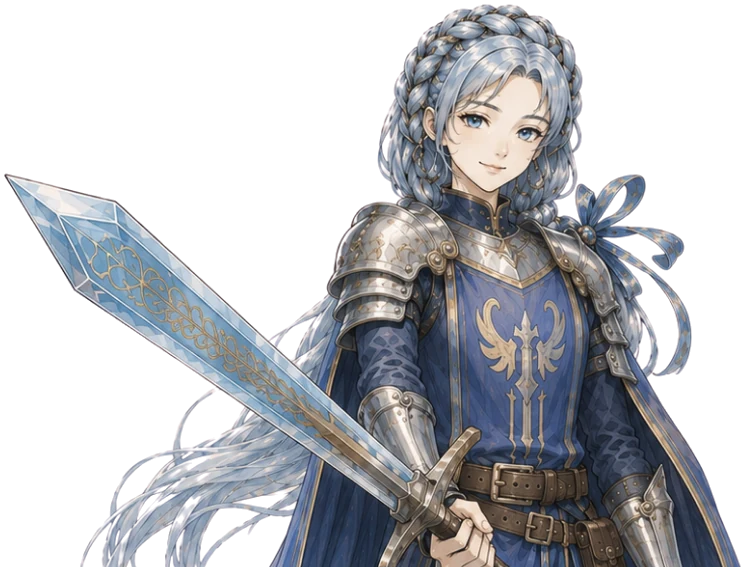
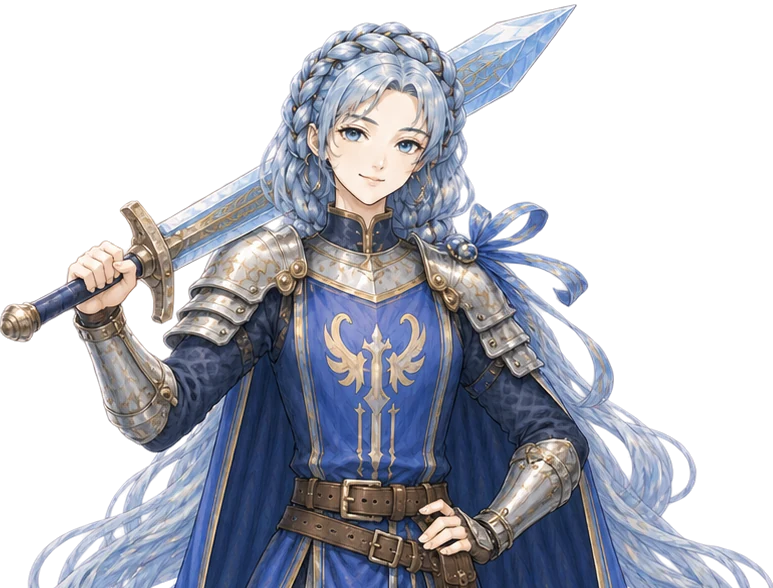
青い手(男女)を描き直した全身像に差し替え、全身像と胸像を作り直す (#195)

diff --git a/scripts/generateSealCutouts.py b/scripts/generateSealCutouts.py
@@ -114,6 +114,8 @@ BUST_KEEP_MIN: dict[tuple[int, str], float] = {
     # 描き直し後も細身で、何もしないと全身の 2割強しか残らない。描き直した他の3人(約 0.28〜0.30)に合わせる
     (10, '-male'): 0.29,  # 青い猿(男性)
     (14, '-male'): 0.29,  # 青い鷲(男性)
+    # 2026-11-22 描き直し: 剣を腰の高さで構えているので、女性(剣先込みで約 0.42 が残る)に合わせて剣まで残す
+    (6, '-male'): 0.41,   # 青い手(男性)
 }
 
 
